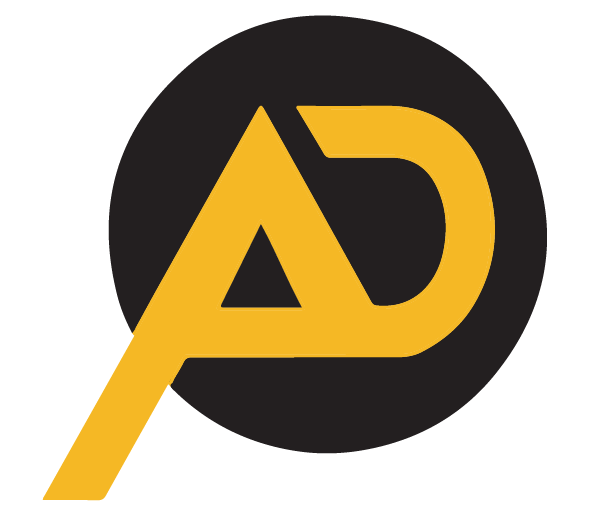
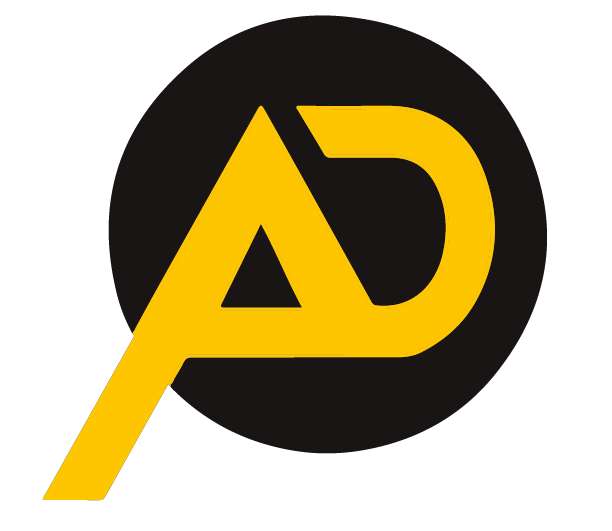
cambio icono- about us

Changed region(s): [[0.0621, 0.1808, 0.8072, 0.9642]]

diff --git a/src/main/resources/static/web/index.html b/src/main/resources/static/web/index.html
@@ -4,12 +4,12 @@
 <head>
   <meta charset="utf-8" />
   <meta name="viewport" content="width=device-width, initial-scale=1" />
-  <link rel="shortcut icon" href="./assets/Imagenes/PNG9.png" type="image/x-icon">
+  <link rel="shortcut icon" href="./assets/Imagenes/FAVICON.png" type="image/x-icon">
   <title>Inicio | ADSTORE </title>
   <script src="https://kit.fontawesome.com/e7963be4ed.js" crossorigin="anonymous"></script>
   <link href="https://cdn.jsdelivr.net/npm/bootstrap@5.3.0-alpha1/dist/css/bootstrap.min.css" rel="stylesheet"
     integrity="sha384-GLhlTQ8iRABdZLl6O3oVMWSktQOp6b7In1Zl3/Jr59b6EGGoI1aFkw7cmDA6j6gD" crossorigin="anonymous" />
-
+  <link href="https://fonts.googleapis.com/css2?family=Audiowide&display=swap" rel="stylesheet">
   <link rel="preconnect" href="https://fonts.googleapis.com">
   <link rel="preconnect" href="https://fonts.gstatic.com" crossorigin>
   <link href="https://fonts.googleapis.com/css2?family=Poppins&family=Work+Sans&display=swap" rel="stylesheet">
@@ -53,6 +53,8 @@
       </nav>
     </header>
     <main class="main-index d-flex flex-column gap-3 justify-content-center align-items-center">
+      
+
       <div class="fotos-landing">
         <div class="typing-container">
           <span id="sentence" class="fuente-workSans sentence font3-color">UN LUGAR DISTINTO... </span>
@@ -64,7 +66,15 @@
         <!-- contenedor de imagenes entrada -->
       </div>
       <div class="w-100 div-icono">
-        <img src="./assets/Imagenes/PNG9.png" alt="logo" class="icono-landing position-absolute">
+        <img src="./assets/Imagenes/BLANCO-N.png" alt="logo" class="icono-landing position-absolute">
+      </div>
+      <!-- contenedor About US -->
+      <div class="aboutus">
+        <h3 class="fuente-audiowide">SOBRE NOSOTROS...</h3>
+        <P class="fuente-poppins ">Nos enorgullecemos de ofrecer todos los servicios de más alta calidad necesarios para mantener en las mejores condiciones tu vehículo. Con años de experiencia en la industria automotriz, nuestro equipo de mecánicos altamente capacitados y certificados tiene la habilidad y el conocimiento para manejar cualquier problema que su vehículo pueda tener.
+          Creemos en la importancia de la honestidad y la transparencia en cada interacción con nuestros clientes. Nos aseguramos de que cada cliente comprenda el proceso de reparación de su vehículo y se sienta cómodo con cada paso que tomamos.
+          Además, nuestro equipo utiliza solo las herramientas y equipos de la más alta calidad, lo que garantiza que su vehículo reciba el mejor cuidado posible. Nos aseguramos de estar actualizados en las últimas tecnologías y técnicas de reparación, lo que nos permite ofrecer servicios de vanguardia en nuestro taller.
+        </P>
       </div>
       <img class="w-100" src="./assets/Imagenes/IMG4.jpg" alt="">
       <img class="w-100" src="./assets/Imagenes/IMG3.jpg" alt="">

diff --git a/src/main/resources/static/web/assets/styles/estiloIndex.css b/src/main/resources/static/web/assets/styles/estiloIndex.css
@@ -3,7 +3,9 @@
     padding: 0;
     margin: 0;
 }
-
+body{
+    background-color: black;
+}
 :root {
     --font-color1 : white;
     --font-color2: #f7ba24;
@@ -52,6 +54,11 @@
     font-family: 'Work Sans', sans-serif;
     font-size: 2rem;
     z-index: 2;
+    
+}
+
+.fuente-audiowide{
+    font-family: 'Audiowide', cursive;
 }
 
 .nav-landing-page, .collapse-nav-lista{
@@ -109,10 +116,10 @@
     40% {opacity: 1;}
     60% {opacity: 0;}
     100% {opacity: 0;}
-  }
+}
 
 .input-cursor { 
-  animation: blink .6s linear infinite alternate;
+    animation: blink .6s linear infinite alternate;
 }
 
 .icono-landing {
@@ -169,7 +176,6 @@ footer{
 .copyright{
     background-color:#f7ba24 ;
 }
-
 .link-contacto{
     font-size: 15px;
     color: #e1e1e1;
@@ -205,4 +211,10 @@ footer{
     transition-timing-function: cubic-bezier(0.25, 0.8, 0.25, 1);
     transition-duration: 400ms;
     transition-property: width, left;
+}
+.aboutus{
+    background-image: linear-gradient(#f7bb24a8, #f7bb2487),url("../Imagenes/fondoAmarillo.jpg")!important;
+    background-size: 1300px 700px !important;
+    padding: 4rem;
+    width: 100%;
 }
